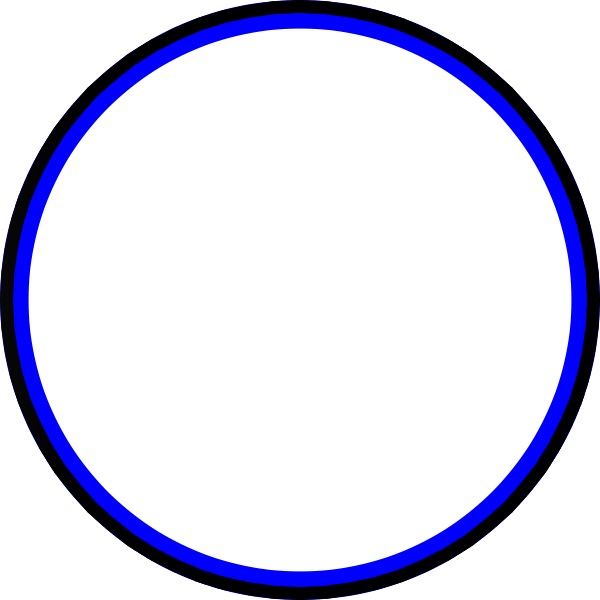
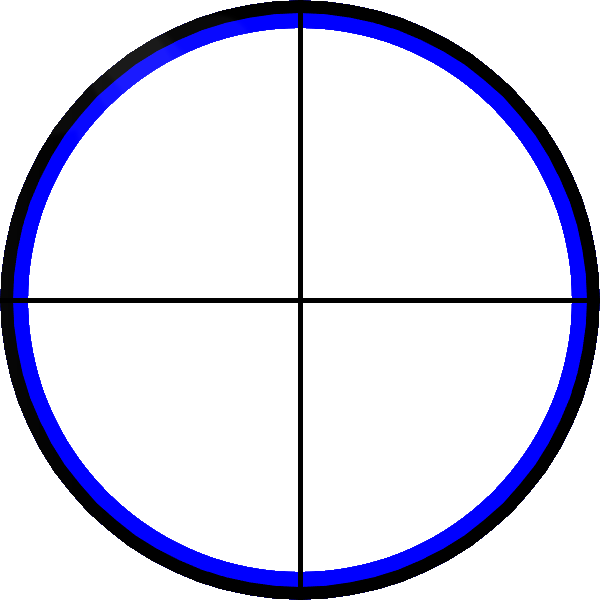
Added rotation to renderer

diff --git a/CSC3224-gamedev/RenderableBuildSystem.cpp b/CSC3224-gamedev/RenderableBuildSystem.cpp
@@ -2,6 +2,9 @@
 #include "World.h"
 #include "Components/Sprite.h"
 #include <EASTL\sort.h>
+#define _USE_MATH_DEFINES
+#include <math.h>
+
 RenderableBuildSystem::RenderableBuildSystem(World & w) : ISystem(w)
 {
 	vArray_ = sf::VertexArray(sf::Quads);
@@ -15,21 +18,38 @@ RenderableBuildSystem::~RenderableBuildSystem()
 void RenderableBuildSystem::step(const sf::Time & dt)
 {
 	auto list = this->world_->getEntityManager().getComponentList(IComponent::Type::Renderable);
+	/* Sort list by z layering */
 	eastl::quick_sort(list->begin(), list->end(), [](ComponentVector::value_type a, ComponentVector::value_type b) {
 		return a.second->getTransform()->getZOrder() < b.second->getTransform()->getZOrder();
 	});
 	vArray_.resize(list->size() * 4);
 
+	/* Create quads */
 	int quadIndex = 0;
 	for (auto pair : *list)
 	{
 		auto rect = static_cast<Sprite*>(pair.first)->getRect();
 		auto pos = pair.second->getTransform()->getPosition();
-		/* Create quad vertices */
-		vArray_[quadIndex].position = sf::Vector2f(pos.x + rect.left, pos.y + rect.top);
-		vArray_[quadIndex + 1].position = sf::Vector2f(pos.x + rect.left + rect.width, pos.y + rect.top);
-		vArray_[quadIndex + 2].position = sf::Vector2f(pos.x + rect.left + rect.width, pos.y + rect.top + rect.height);
-		vArray_[quadIndex + 3].position = sf::Vector2f(pos.x + rect.left, pos.y + rect.top + rect.height);
+		auto origin = pair.second->getTransform()->getOrigin();
+		auto rotation = pair.second->getTransform()->getRotation();
+
+		/* Calculate positions*/
+		auto topLeft = sf::Vector2f(pos.x - origin.x + rect.left,
+			pos.y - origin.y + rect.top);
+		auto topRight = sf::Vector2f(pos.x - origin.x + rect.left + rect.width,
+			pos.y - origin.y + rect.top);
+		auto bottomLeft = sf::Vector2f(pos.x - origin.x + rect.left + rect.width,
+			pos.y - origin.y + rect.top + rect.height);
+		auto bottomRight = sf::Vector2f(pos.x - origin.x + rect.left,
+			pos.y - origin.y + rect.top + rect.height);
+		
+		auto absoluteOrigin = topLeft + origin;
+
+		/* Create quad vertices and rotate points if needed*/
+		vArray_[quadIndex].position = rotatePoint(topLeft, absoluteOrigin, rotation);
+		vArray_[quadIndex + 1].position = rotatePoint(topRight, absoluteOrigin, rotation);
+		vArray_[quadIndex + 2].position = rotatePoint(bottomLeft, absoluteOrigin, rotation);
+		vArray_[quadIndex + 3].position = rotatePoint(bottomRight, absoluteOrigin, rotation);
 
 		/* Create quad texture coordinates (non-normalised) */
 		vArray_[quadIndex].texCoords = sf::Vector2f(rect.left, rect.top);
@@ -41,8 +61,24 @@ void RenderableBuildSystem::step(const sf::Time & dt)
 		quadIndex += 4;
 	}
 	
+	/* Replace drawables list with new one */
+	//TODO: Optimise all this copying every frame
 	this->world_->clearDrawables();
 	vector<pair<sf::VertexArray, sf::Texture>> m;
 	m.push_back(make_pair(vArray_, static_cast<Sprite*>(list->at(0).first)->getTexture()));
 	this->world_->addDrawables(m);
+}
+
+sf::Vector2f RenderableBuildSystem::rotatePoint(sf::Vector2f & point, sf::Vector2f & origin, float angle)
+{
+	if (angle == 0)
+	{
+		return point;
+	}
+
+	angle = angle * (M_PI / 180.0f); // Convert to radians
+	auto rotatedX = cosf(angle) * (point.x - origin.x) - sinf(angle) * (point.y - origin.y) + origin.x;
+	auto rotatedY = sinf(angle) * (point.x - origin.x) + cosf(angle) * (point.y - origin.y) + origin.y;
+
+	return sf::Vector2f(rotatedX, rotatedY);
 }

diff --git a/Game/MyGame.cpp b/Game/MyGame.cpp
@@ -31,11 +31,12 @@ void MyGame::init()
 	Sprite* player2Sprite = new Sprite(playerTexture, rect);
 	auto p = world_->getEntityManager().createEntity();
 	p->addComponent(*playerSprite);
-	auto p2 = world_->getEntityManager().createEntity();
-	p2->addComponent(*player2Sprite);
-	p2->getTransform()->move(100, 100);
-	p2->getTransform()->setZOrder(10);
-	
+	wheel = world_->getEntityManager().createEntity();
+	wheel->addComponent(*player2Sprite);
+	auto transform = wheel->getTransform();
+	//transform->move(200, 0);
+	transform->setZOrder(10);
+	transform->setOrigin(300, 300);
 	/* Set up world subsystems */
 	auto r = new RenderableBuildSystem(*this->world_);
 	this->world_->addSystem(*r);
@@ -70,6 +71,7 @@ void MyGame::run()
 			//Main loop
 			intentHandler_.processIntents();
 			world_->step(gameClock_.getElapsedTime());
+			wheel->getTransform()->rotate(1);
 			window_->clear(sf::Color::Cyan);
 			world_->draw(*window_);
 			window_->display();

diff --git a/CSC3224-gamedev/Systems/RenderableBuildSystem.h b/CSC3224-gamedev/Systems/RenderableBuildSystem.h
@@ -12,4 +12,6 @@ public:
 
 protected:
 	sf::VertexArray vArray_;
+
+	sf::Vector2f rotatePoint(sf::Vector2f& point, sf::Vector2f& origin, float angle);
 };

diff --git a/Game/MyGame.h b/Game/MyGame.h
@@ -19,5 +19,6 @@ private:
 	World* world_;
 
 	sf::Texture playerTexture;
+	Entity* wheel;
 };
 
